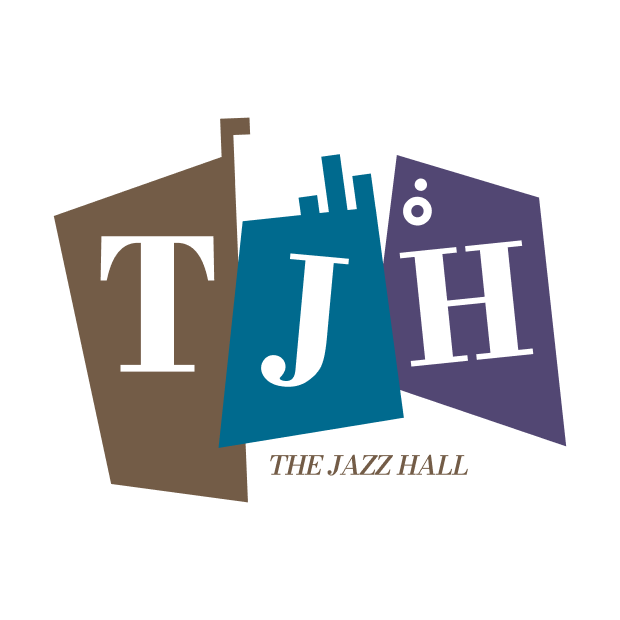
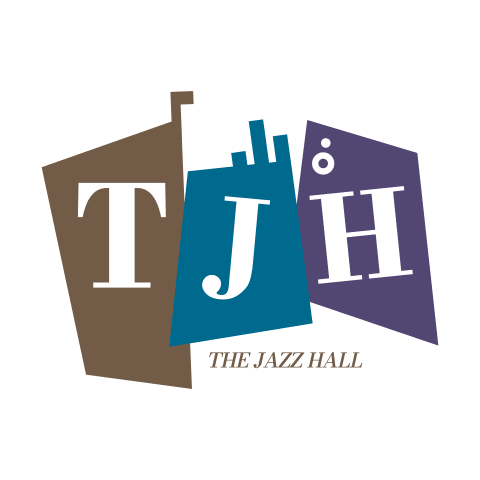
docs: Remake tables for radio station list
* Divide the radio stations into three categories
* Use smaller table images (480px now)
* Update table logic and separate horz and vert ones

Changed region(s): [[0.5312, 0.4062, 0.5625, 0.4375]]

diff --git a/docs/authority/radio/index.html b/docs/authority/radio/index.html
@@ -58,46 +58,95 @@
 
   <h2 id="stations">Stations</h2>
   <p>There are a combined total of 9 dynamic radio stations as of now, with some stations exclusive for our headquarters. The last radio station was added on <b>April 22th, 2024</b>. Tap on each radio station icon to get the full tracklist, Spotify playlist, streaming instructions and more information about it.</p>
+  <p>We recently re-ordered our radio station in different categories shown below:</p>
 
-  <!--Table for horizontal screens. 4 columns - limited rows -->
+  <h3>Main Stations</h3>
+  <p>Stations that play specific genres and are usually updated with DLCs (optional packages). Highly curated.</p>
+
+  <!-- Vertical screen uses 3 columns - limited rows
+       Horizontal screen uses 4 columns - limited rows -->
+
   <div class="horz">
     <table class="tg">
       <thead><tr>
         <th class="tg-0lax"><a href="independence-pop-fm"><img src="img/table/pop.png" alt="Independence Pop FM" width="100%"></a></th>
-        <th class="tg-0lax"><div class="light"><a href="the-authority-rock-radio"><img src="img/table/rock.png" alt="The Authority Rock Radio" width="100%"></a></div><div class="dark"><a href="the-authority-rock-radio"><img src="img/table/rock_dark.png" alt="The Authority Rock Radio" width="100%"></a></div></th>
         <th class="tg-0lax"><a href="the-labs-x-fm-001"><img src="img/table/labs.png" alt="The Labs X FM" width="100%"></a></th>
-        <th class="tg-0lax"><a href="radio-authority-park"><img src="img/table/silverlake.png" alt="Radio Authority Park" width="100%"></a></th></tr>
-      </thead>
+        <th class="tg-0lax"><a href="radio-authority-park"><img src="img/table/silverlake.png" alt="Radio Authority Park" width="100%"></a></th>
+        <th class="tg-0lax"><div class="light"><a href="the-authority-rock-radio"><img src="img/table/rock.png" alt="The Authority Rock Radio" width="100%"></a></div><div class="dark"><a href="the-authority-rock-radio"><img src="img/table/rock_dark.png" alt="The Authority Rock Radio" width="100%"></a></div></th>
+      </tr></thead>
       <tbody><tr>
-        <td class="tg-0lax"><a href="the-redpill-fm"><img src="img/table/redpill.png" alt="The Redpill  FM" width="100%"></a></td>
-        <td class="tg-0lax"><a href="urban-underground-fm"><img src="img/table/underground.png" alt="Urban Underground FM" width="100%"></a></td>
-        <td class="tg-0lax"><a href="the-jazz-hall"><img src="img/table/jazz.png" alt="The Jazz Hall" width="100%"></a></td>
-        <td class="tg-0lax"><a href="new-wave-fm"><img src="img/table/dep.png" alt="New Wave FM" width="100%"></a></td></tr>
-      </tbody>
-      <tbody><tr>
-        <td class="tg-0lax"><a href="urban-overground-fm"><img src="img/table/overground.png" alt="Urban Overground FM" width="100%"></a></td>
-
-      </tbody>
+      </tr></tbody>
     </table>
   </div>
 
-  <!-- Table for vertical screens. 3 columns - limited rows -->
   <div class="vert">
-  <table class="tg">
-    <thead><tr>
-      <th class="tg-0lax"><a href="independence-pop-fm"><img src="img/table/pop.png" alt="Independence Pop FM" width="100%"></a></th>
-      <th class="tg-0lax"><div class="light"><a href="the-authority-rock-radio"><img src="img/table/rock.png" alt="The Authority Rock Radio" width="100%"></a></div><div class="dark"><a href="the-authority-rock-radio"><img src="img/table/rock_dark.png" alt="The Authority Rock Radio" width="100%"></a></div></th>
-      <th class="tg-0lax"><a href="the-labs-x-fm-001"><img src="img/table/labs.png" alt="The Labs X FM" width="100%"></a></th></tr>
-    </thead>
-    <tbody><tr>
-      <td class="tg-0lax"><a href="radio-authority-park"><img src="img/table/silverlake.png" alt="Radio Authority Park" width="100%"></a></td>
-      <td class="tg-0lax"><a href="the-redpill-fm"><img src="img/table/redpill.png" alt="The Redpill  FM" width="100%"></a></td>
-      <td class="tg-0lax"><a href="new-wave-fm"><img src="img/table/dep.png" alt="New Wave FM" width="100%"></a></td></tr><tr>
-      <td class="tg-0lax"><a href="the-jazz-hall"><img src="img/table/jazz.png" alt="The Jazz Hall" width="100%"></a></td>
-      <td class="tg-0lax"><a href="urban-overground-fm"><img src="img/table/overground.png" alt="Urban Overground FM" width="100%"></a></td>
-      <td class="tg-0lax"><a href="urban-underground-fm"><img src="img/table/underground.png" alt="Urban Underground FM" width="100%"></a></td>
-    </tbody>
-  </table>
+    <table class="tg">
+      <thead><tr>
+        <th class="tg-0lax"><a href="independence-pop-fm"><img src="img/table/pop.png" alt="Independence Pop FM" width="100%"></a></th>
+        <th class="tg-0lax"><a href="the-labs-x-fm-001"><img src="img/table/labs.png" alt="The Labs X FM" width="100%"></a></th>
+        <th class="tg-0lax"><a href="radio-authority-park"><img src="img/table/silverlake.png" alt="Radio Authority Park" width="100%"></a></th>
+      </tr></thead>
+      <tbody><tr>
+        <td class="tg-0lax"><div class="light"><a href="the-authority-rock-radio"><img src="img/table/rock.png" alt="The Authority Rock Radio" width="100%"></a></div><div class="dark"><a href="the-authority-rock-radio"><img src="img/table/rock_dark.png" alt="The Authority Rock Radio" width="100%"></a></div></td>
+      </tr></tbody>
+    </table>
+  </div>
+
+  <h3>Experimental Stations</h3>
+  <p>Stations that has experimental cuts, different advertisements and doesn't necessarily play a defined genre.</p>
+
+  <div class="horz">
+    <table class="tg">
+      <thead><tr>
+        <th class="tg-0lax"><a href="the-redpill-fm"><img src="img/table/redpill.png" alt="The Redpill  FM" width="100%"></a></th>
+        <th class="tg-0lax"><a><img src="img/table/blank.png" width="100%"></a></th>
+        <th class="tg-0lax"><a><img src="img/table/blank.png" width="100%"></a></th>
+        <th class="tg-0lax"><a><img src="img/table/blank.png" width="100%"></a></th>
+      </tr></thead>
+      <tbody><tr>
+      </tr></tbody>
+    </table>
+  </div>
+
+  <div class="vert">
+    <table class="tg">
+      <thead><tr>
+        <th class="tg-0lax"><a href="the-redpill-fm"><img src="img/table/redpill.png" alt="The Redpill  FM" width="100%"></a></th>
+        <th class="tg-0lax"><a><img src="img/table/blank.png" width="100%"></a></th>
+        <th class="tg-0lax"><a><img src="img/table/blank.png" width="100%"></a></th>
+      </tr></thead>
+      <tbody><tr>
+      </tr></tbody>
+    </table>
+  </div>
+
+  <h3>Other Stations</h3>
+  <p>Other station we've made. Not main but not experimental, neither. They are just... radio stations!</p>
+
+  <div class="horz">
+    <table class="tg">
+      <thead><tr>
+        <th class="tg-0lax"><a href="the-jazz-hall"><img src="img/table/jazz.png" alt="The Jazz Hall" width="100%"></a></th>
+        <th class="tg-0lax"><a href="urban-underground-fm"><img src="img/table/underground.png" alt="Urban Underground FM" width="100%"></a></th>
+        <th class="tg-0lax"><a href="urban-overground-fm"><img src="img/table/overground.png" alt="Urban Overground FM" width="100%"></a></th>
+        <th class="tg-0lax"><a href="new-wave-fm"><img src="img/table/dep.png" alt="New Wave FM" width="100%"></a></th>
+      </tr></thead>
+      <tbody><tr>
+      </tr></tbody>
+    </table>
+  </div>
+
+  <div class="vert">
+    <table class="tg">
+      <thead><tr>
+        <th class="tg-0lax"><a href="the-jazz-hall"><img src="img/table/jazz.png" alt="The Jazz Hall" width="100%"></a></th>
+        <th class="tg-0lax"><a href="urban-underground-fm"><img src="img/table/underground.png" alt="Urban Underground FM" width="100%"></a></th>
+        <th class="tg-0lax"><a href="urban-overground-fm"><img src="img/table/overground.png" alt="Urban Overground FM" width="100%"></a></th>
+      </tr></thead>
+      <tbody><tr>
+        <td class="tg-0lax"><a href="new-wave-fm"><img src="img/table/dep.png" alt="New Wave FM" width="100%"></a></td>
+      </tr></tbody>
+    </table>
   </div>
 
   <hr>
@@ -183,7 +232,7 @@
   </ul>
 
   <br><hr>
-  <a>Updated on: June 20, 2024.</a><br>
+  <a>Updated on: June 25, 2024.</a><br>
   <a>Copyright C 2024 The BBJProjeK Organization</a>
 
   <!-- Scripts -->
